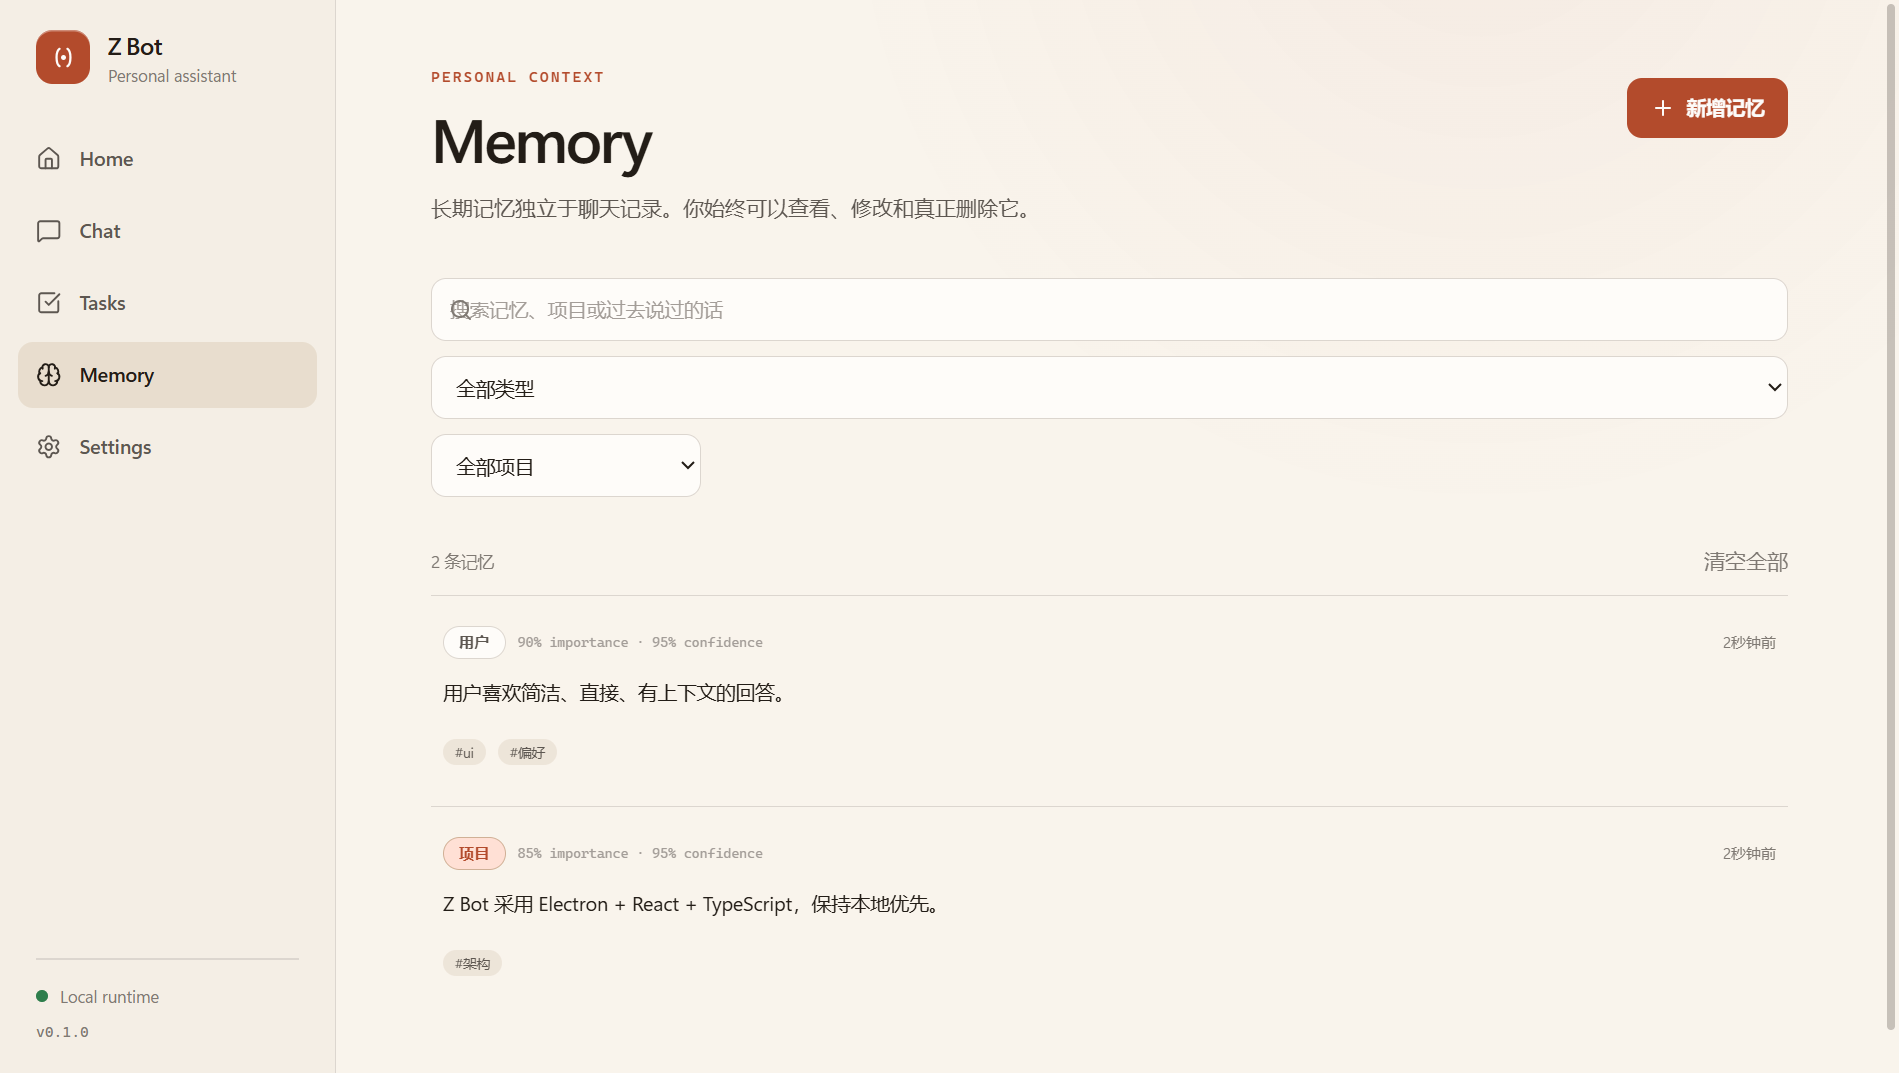
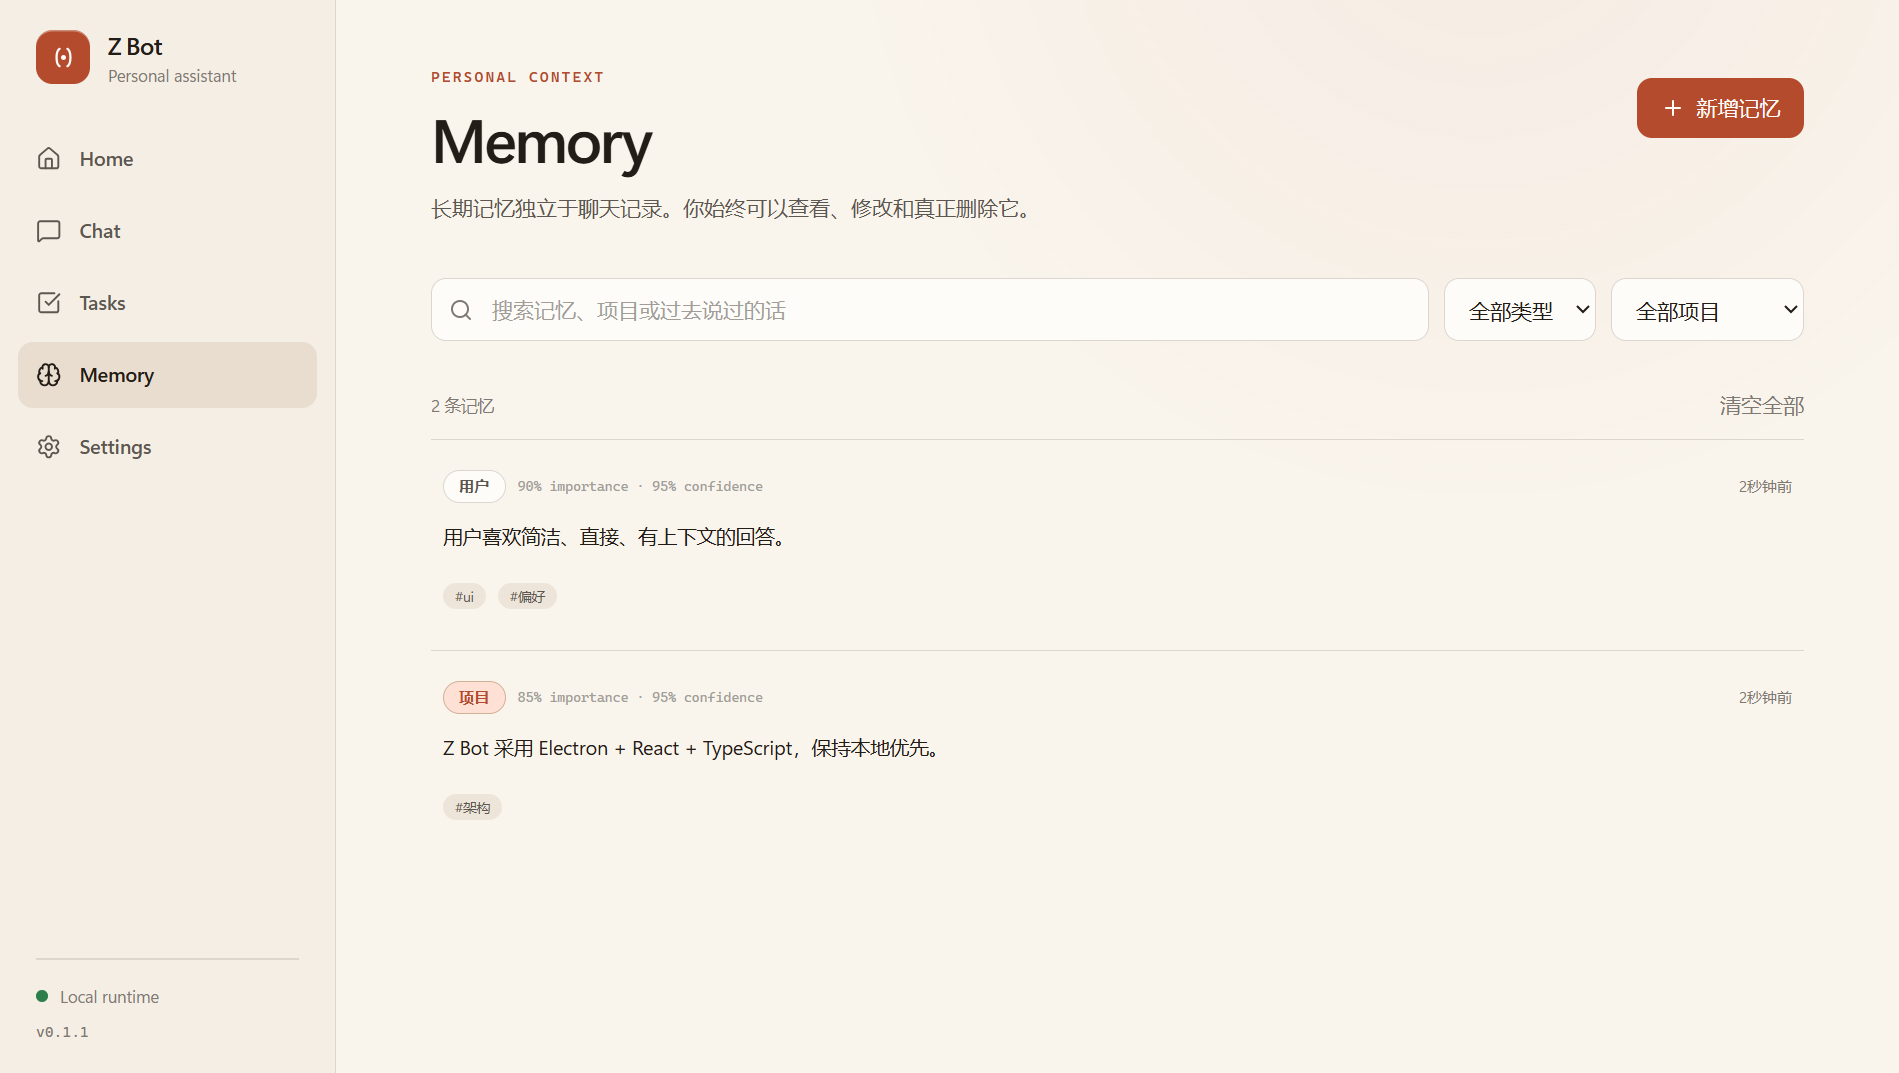
polish: fix utility style precedence and refresh CI actions
Keep release version commits formatting-stable, move shared control styles
under component layers so Tailwind sizing utilities work, upgrade Actions
runtimes, and refresh README screenshots.

diff --git a/apps/desktop/renderer/src/styles/index.css b/apps/desktop/renderer/src/styles/index.css
@@ -203,7 +203,8 @@ button:disabled {
   background: color-mix(in oklch, var(--surface) 55%, transparent);
 }
 
-.btn {
+@layer components {
+:where(.btn) {
   display: inline-flex;
   min-height: 40px;
   align-items: center;
@@ -221,46 +222,46 @@ button:disabled {
     transform 150ms ease-out;
 }
 
-.btn:not(:disabled):active {
+:where(.btn):not(:disabled):active {
   transform: translateY(1px);
 }
 
-.btn-primary {
+:where(.btn-primary) {
   background: var(--accent);
   color: var(--accent-ink);
 }
 
-.btn-primary:not(:disabled):hover {
+:where(.btn-primary):not(:disabled):hover {
   background: var(--accent-hover);
 }
 
-.btn-secondary {
+:where(.btn-secondary) {
   border-color: var(--line);
   background: var(--surface-raised);
   color: var(--ink);
 }
 
-.btn-secondary:not(:disabled):hover {
+:where(.btn-secondary):not(:disabled):hover {
   border-color: var(--line-strong);
   background: var(--surface);
 }
 
-.btn-ghost {
+:where(.btn-ghost) {
   color: var(--muted-strong);
 }
 
-.btn-ghost:not(:disabled):hover {
+:where(.btn-ghost):not(:disabled):hover {
   background: var(--nav-hover);
   color: var(--ink);
 }
 
-.btn-danger {
+:where(.btn-danger) {
   border-color: color-mix(in oklch, var(--danger) 35%, var(--line));
   background: var(--danger-soft);
   color: var(--danger);
 }
 
-.field {
+:where(.field) {
   width: 100%;
   min-height: 42px;
   border: 1px solid var(--line);
@@ -271,18 +272,19 @@ button:disabled {
   font-size: 13px;
 }
 
-.field::placeholder {
+:where(.field)::placeholder {
   color: var(--muted-faint);
 }
 
-.field:hover {
+:where(.field):hover {
   border-color: var(--line-strong);
 }
 
-.field:focus {
+:where(.field):focus {
   border-color: var(--accent);
   outline: 2px solid color-mix(in oklch, var(--accent) 25%, transparent);
   outline-offset: 0;
+}
 }
 
 .label {
